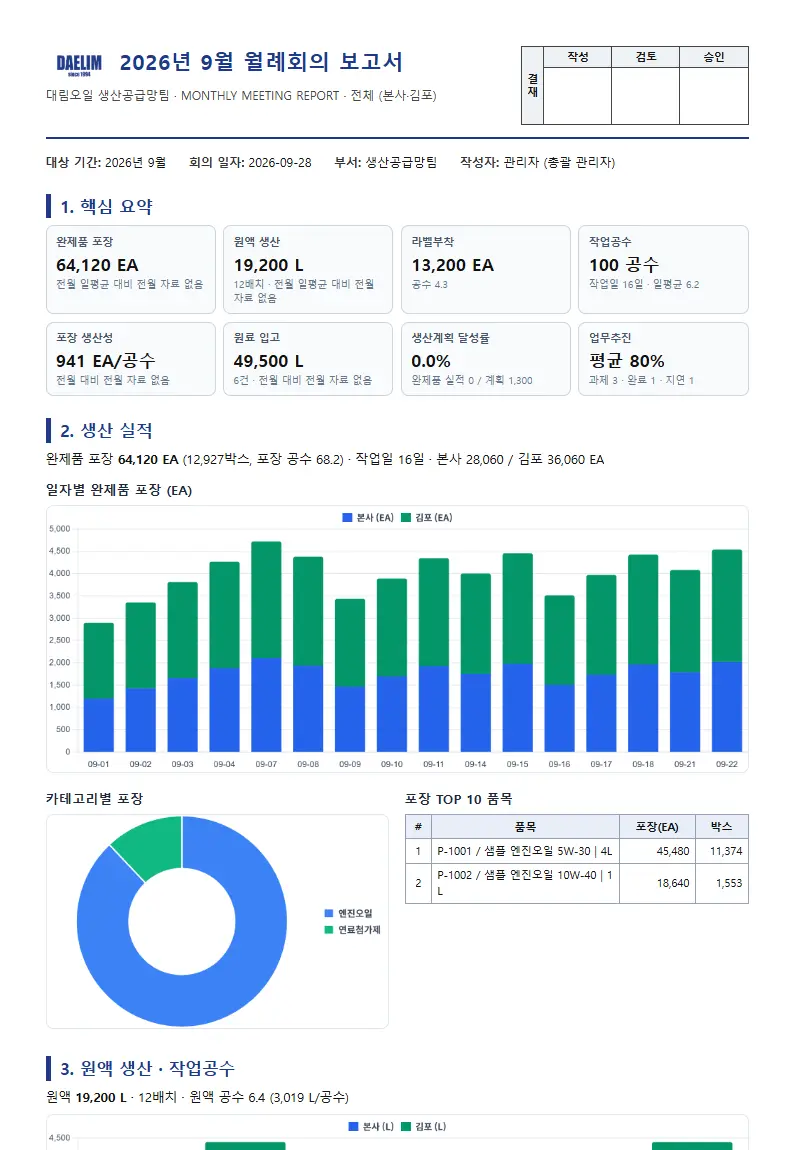
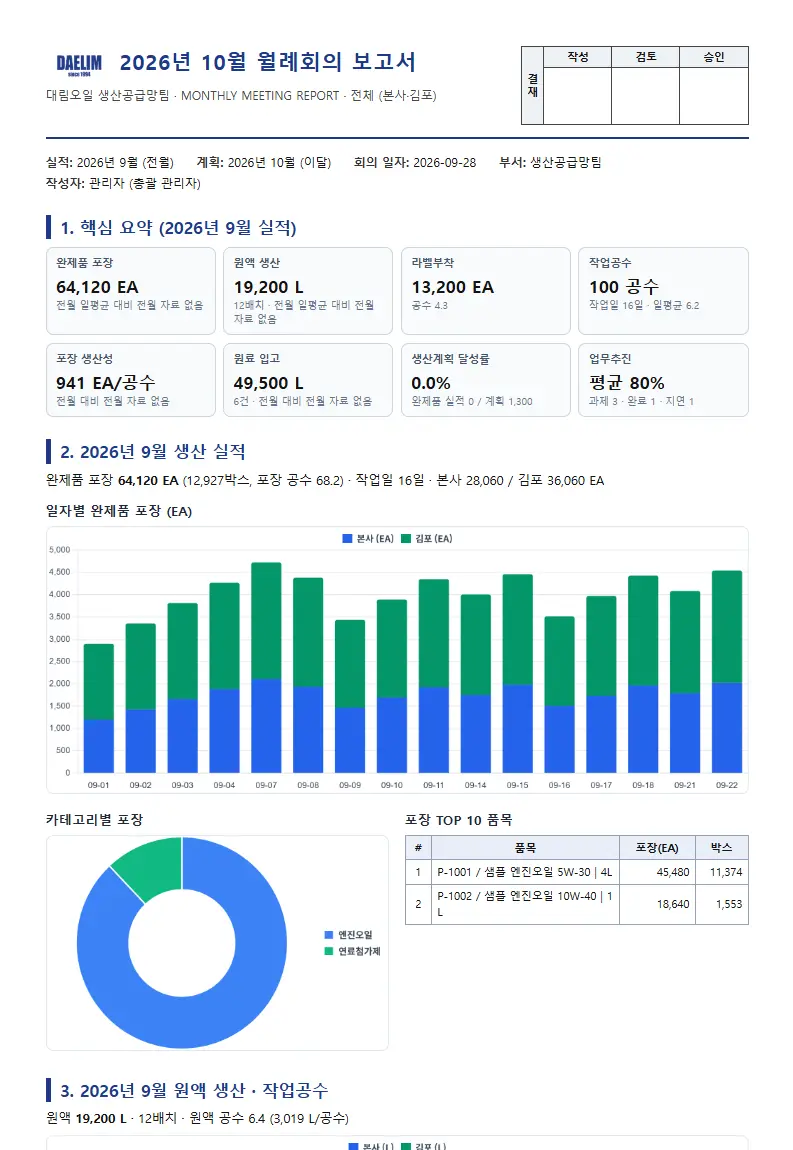
월례회의 자료: 회의 월 선택 시 실적은 전월, 계획은 이달로 반영 (제목·목차·절 이름에 달 표시, 이달 업무추진 계획 슬라이드 추가)

diff --git a/src/components/analytics/monthlyMeeting.js b/src/components/analytics/monthlyMeeting.js
@@ -10,17 +10,18 @@ import { approvalPrintHtml } from '../approval/ApprovalBox.js';
 import { computeRawInbound, REGION_COLORS } from './rawInbound.js';
 
 // 월간 실적 현황판 → 월례회의 자료 (PPT · PDF 보고서)
-// 재료: 현황판의 생산실적(업무일지 집계 스냅숏) + 원료입고 실적(원료수불부) + 업무추진계획서(이달·다음 달)
-//       + 월간 생산계획·구매계획(주간 계획 취합: 이달 계획 대비 실적, 다음 달 계획)
+// 회의 월(M)을 고르면 실적은 전월(M-1), 계획은 이달(M): collectMeetingData의 D.ym = 실적 달(전월), D.nym = 회의 월(이달)
+// 재료: 현황판의 생산실적(업무일지 집계, 전월) + 원료입고 실적(원료수불부, 전월) + 업무추진계획서(전월 현황·이달 중점)
+//       + 월간 생산계획·구매계획(주간 계획 취합: 전월 계획 대비 실적·구매 이행, 이달 계획)
 // PPT: pptxgenjs로 편집 가능한 차트·표 슬라이드(16:9, 맑은 고딕). PDF: A4 세로 보고서를 새 창에 그려 인쇄 → 'PDF로 저장'.
 // 두 양식 모두 같은 자료(collectMeetingData)를 쓴다.
 const OPTS_KEY = 'daelim_meeting_opts';
 const SITE_LABEL = { HQ: '본사', GIMPO: '김포' };
 const SITE_COLOR = { HQ: '#2563eb', GIMPO: '#059669' };
 export const MEETING_SECTIONS = [
-    ['prod', '생산 실적 (포장·카테고리·TOP 10)'], ['oil', '원액 생산 · 작업공수'], ['raw', '원료입고 실적'],
-    ['plan', '생산계획 대비 실적'], ['purch', '구매계획 이행'], ['work', '업무추진 현황'],
-    ['next', '다음 달 생산·구매계획 · 중점 추진'], ['issue', '이슈 · 건의사항']
+    ['prod', '전월 생산 실적 (포장·카테고리·TOP 10)'], ['oil', '전월 원액 생산 · 작업공수'], ['raw', '전월 원료입고 실적'],
+    ['plan', '전월 생산계획 대비 실적'], ['purch', '전월 구매계획 이행'], ['work', '전월 업무추진 현황'],
+    ['next', '이달 생산·구매계획 · 중점 추진'], ['issue', '이슈 · 건의사항']
 ];
 const fmt = (n, d = 0) => (Number(n) || 0).toLocaleString('ko-KR', { maximumFractionDigits: d });
 const ymLabel = (ym) => `${ym.slice(0, 4)}년 ${Number(ym.slice(5, 7))}월`;
@@ -169,7 +170,10 @@ const kpiList = (D) => {
         ['업무추진', D.taskSum.total ? `평균 ${D.taskSum.avg.toFixed(0)}%` : '계획서 없음', D.taskSum.total ? `과제 ${D.taskSum.total} · 완료 ${D.taskSum.count.DONE} · 지연 ${D.taskSum.count.DELAY}` : '생산관리 → 업무추진계획']
     ];
 };
-const title = (D) => `${ymLabel(D.ym)} ${D.form.dept} 월례회의`;
+// 제목은 회의 월(이달), 실적 절은 전월 이름을 붙인다
+const title = (D) => `${ymLabel(D.nym)} ${D.form.dept} 월례회의`;
+const R = (D) => ymLabel(D.ym); // 실적 달 (전월)
+const P = (D) => ymLabel(D.nym); // 계획 달 (이달 = 회의 월)
 
 // ---------- PDF 보고서 (A4 세로, 인쇄 → PDF로 저장) ----------
 export const exportMeetingPdf = async (D, w = window.open('', '_blank')) => {
@@ -193,15 +197,15 @@ export const exportMeetingPdf = async (D, w = window.open('', '_blank')) => {
     const note = (t) => (t ? `<div class="notes">${esc(t)}</div>` : '');
     const more = (n, shown) => (n > shown ? `<p class="small">외 ${n - shown}건은 월간 실적 현황판·계획 화면에서 확인</p>` : '');
     const sec = [];
-    sec.push(`${h2('핵심 요약')}<div class="kpis">${kpiList(D).map(([k, v, sub]) => `<div class="kpi"><div class="k">${esc(k)}</div><div class="v">${esc(v)}</div><div class="s">${esc(sub)}</div></div>`).join('')}</div>`);
+    sec.push(`${h2(`핵심 요약 (${R(D)} 실적)`)}<div class="kpis">${kpiList(D).map(([k, v, sub]) => `<div class="kpi"><div class="k">${esc(k)}</div><div class="v">${esc(v)}</div><div class="s">${esc(sub)}</div></div>`).join('')}</div>`);
     if (on('prod')) {
-        sec.push(`<div class="block">${h2('생산 실적')}<p class="lead">완제품 포장 <b>${fmt(s.t.pack)} EA</b> (${fmt(s.t.packBox)}박스, 포장 공수 ${fmt(s.t.mhPack, 1)}) · 작업일 ${s.workDays}일${s.view === 'ALL' ? ` · 본사 ${fmt(s.bySite.HQ.pack)} / 김포 ${fmt(s.bySite.GIMPO.pack)} EA` : ''}</p>
+        sec.push(`<div class="block">${h2(`${R(D)} 생산 실적`)}<p class="lead">완제품 포장 <b>${fmt(s.t.pack)} EA</b> (${fmt(s.t.packBox)}박스, 포장 공수 ${fmt(s.t.mhPack, 1)}) · 작업일 ${s.workDays}일${s.view === 'ALL' ? ` · 본사 ${fmt(s.bySite.HQ.pack)} / 김포 ${fmt(s.bySite.GIMPO.pack)} EA` : ''}</p>
             ${img.pack ? `<h3>일자별 완제품 포장 (EA)</h3><img class="chart" src="${img.pack}">` : '<p class="small">포장 실적 없음</p>'}</div>
             <div class="block two"><div>${img.category ? `<h3>카테고리별 포장</h3><img class="chart" src="${img.category}">` : ''}</div>
             <div><h3>포장 TOP 10 품목</h3>${table(['#', '품목', '포장(EA)', '박스'], s.products.slice(0, 10).map((p, i) => [i + 1, esc(p.item), fmt(p.qty), fmt(p.box)]), { widths: [7, 0, 20, 14], cls: ['c', '', 'r', 'r'] })}</div></div>`);
     }
     if (on('oil')) {
-        sec.push(`<div class="block">${h2('원액 생산 · 작업공수')}<p class="lead">원액 <b>${fmt(s.t.oil)} L</b> · ${s.t.oilBatches}배치 · 원액 공수 ${fmt(s.t.mhOil, 1)} (${fmt(s.oilProd)} L/공수)</p>
+        sec.push(`<div class="block">${h2(`${R(D)} 원액 생산 · 작업공수`)}<p class="lead">원액 <b>${fmt(s.t.oil)} L</b> · ${s.t.oilBatches}배치 · 원액 공수 ${fmt(s.t.mhOil, 1)} (${fmt(s.oilProd)} L/공수)</p>
             ${img.oil ? `<img class="chart" src="${img.oil}">` : ''}
             <div class="two"><div><h3>원액 품목별</h3>${table(['원액', '생산(L)', '배치', '공수'], s.oils.slice(0, 10).map(o => [esc(o.item), fmt(o.qty), o.batches, fmt(o.manHours, 2)]), { widths: [0, 22, 12, 14], cls: ['', 'r', 'r', 'r'] })}${more(s.oils.length, 10)}</div>
             <div><h3>작업공수 유형별</h3>${table(['유형', '공수', '비율'], [['제품포장', s.t.mhPack], ['원액생산', s.t.mhOil], ['라벨부착', s.t.mhLabel], ['기타업무', s.t.mhOther]].map(([k, v]) => [k, fmt(v, 1), pctText(v, s.t.manHours)]).concat([[`<b>합계</b>`, `<b>${fmt(s.t.manHours, 1)}</b>`, '100%']]), { widths: [0, 22, 18], cls: ['', 'r', 'r'] })}
@@ -209,7 +213,7 @@ export const exportMeetingPdf = async (D, w = window.open('', '_blank')) => {
     }
     if (on('raw')) {
         const r = D.raw;
-        sec.push(`<div class="block">${h2('원료입고 실적')}<p class="lead">원료 입고 <b>${fmt(r.total.qty)} L</b> (${fmt(r.total.kg)} kg) · ${r.total.count}건 · 원료 ${r.byItem.length}품목 · 같은 기간 사용 ${fmt(r.total.useQty)} L · 전월 대비 ${deltaText(r.total.qty, D.rawPrev.total.qty)}</p>
+        sec.push(`<div class="block">${h2(`${R(D)} 원료입고 실적`)}<p class="lead">원료 입고 <b>${fmt(r.total.qty)} L</b> (${fmt(r.total.kg)} kg) · ${r.total.count}건 · 원료 ${r.byItem.length}품목 · 같은 기간 사용 ${fmt(r.total.useQty)} L · 전월 대비 ${deltaText(r.total.qty, D.rawPrev.total.qty)}</p>
             ${img.raw ? `<img class="chart" src="${img.raw}">` : ''}
             ${table(['원료', '입고(L)', '중량(kg)', '건수', '공급처'], r.byItem.slice(0, 12).map(g => [esc(g.name), fmt(g.qty), g.kg ? fmt(g.kg) : '-', g.count, esc([...g.suppliers].join(', '))]), { widths: [0, 22, 22, 12, 50], cls: ['', 'r', 'r', 'r', ''] })}${more(r.byItem.length, 12)}
             <p class="small">원료수불부 매입 입고만 집계 (거점이동·재고조사·원액 생산 입고 제외)</p></div>`);
@@ -219,28 +223,30 @@ export const exportMeetingPdf = async (D, w = window.open('', '_blank')) => {
         sec.push(`<div class="block">${h2(`${ymLabel(D.ym)} 생산계획 대비 실적`)}<p class="lead">완제품 계획 ${fmt(D.planKpi.prodPlan)} · 실적 ${fmt(D.planKpi.prodDone)} · 달성률 <b>${D.planKpi.prodPlan ? pctText(D.planKpi.prodDone, D.planKpi.prodPlan) : '-'}</b>${D.planKpi.oilPlan ? ` · 원액 계획 ${fmt(D.planKpi.oilPlan)} L / 실적 ${fmt(D.planKpi.oilDone)} L` : ''}</p>
             <p class="small">실적 = 생산계획에 적은 실적 수량, * 표시는 적지 않아 업무일지의 포장·원액 생산 실적(그 품목의 첫 계획일부터)으로 채운 값</p>
             ${img.planVs ? `<img class="chart" src="${img.planVs}">` : ''}
-            ${table(['거점', '구분', '품목', '계획', '실적', '달성률', '단위'], rows.slice(0, 15).map(r => [esc(r.site), esc(r.type), esc(r.name), fmt(r.qty), `${fmt(r.done)}${r.src === '업무일지' ? '*' : ''}`, pctText(r.done, r.qty), esc(r.unit)]), { widths: [12, 14, 0, 20, 20, 16, 12], cls: ['c', 'c', '', 'r', 'r', 'r', 'c'], empty: '이 달 생산계획 없음' })}${more(rows.length, 15)}
+            ${table(['거점', '구분', '품목', '계획', '실적', '달성률', '단위'], rows.slice(0, 15).map(r => [esc(r.site), esc(r.type), esc(r.name), fmt(r.qty), `${fmt(r.done)}${r.src === '업무일지' ? '*' : ''}`, pctText(r.done, r.qty), esc(r.unit)]), { widths: [12, 14, 0, 20, 20, 16, 12], cls: ['c', 'c', '', 'r', 'r', 'r', 'c'], empty: `${R(D)} 생산계획 없음` })}${more(rows.length, 15)}
             ${note(D.prodHead?.notes || D.prodHead?.goals || '')}</div>`);
     }
     if (on('purch')) {
         const p = D.purch;
         sec.push(`<div class="block">${h2(`${ymLabel(D.ym)} 구매계획 이행`)}<p class="lead">구매 ${p.count}건 · 입고완료 ${p.status.RECEIVED || 0} · 발주 ${p.status.ORDER || 0} · 계획 ${p.status.PLAN || 0} · 보류 ${p.status.HOLD || 0} · 입고완료율 <b>${pctText(p.status.RECEIVED || 0, p.count)}</b>${p.amount ? ` · 예상 금액 ${fmt(p.amount)}원` : ''}</p>
-            ${table(['거점', '품목', '수량', '단위', '공급처', '상태', '금액(원)'], p.rows.slice(0, 15).map(r => [esc(r.site), esc(r.name), fmt(r.qty), esc(r.unit), esc([...r.suppliers].join(', ')), esc([...r.statuses].join('·')), r.amount ? fmt(r.amount) : '-']), { widths: [12, 0, 18, 12, 30, 20, 22], cls: ['c', '', 'r', 'c', '', 'c', 'r'], empty: '이 달 구매계획 없음' })}${more(p.rows.length, 15)}</div>`);
+            ${table(['거점', '품목', '수량', '단위', '공급처', '상태', '금액(원)'], p.rows.slice(0, 15).map(r => [esc(r.site), esc(r.name), fmt(r.qty), esc(r.unit), esc([...r.suppliers].join(', ')), esc([...r.statuses].join('·')), r.amount ? fmt(r.amount) : '-']), { widths: [12, 0, 18, 12, 30, 20, 22], cls: ['c', '', 'r', 'c', '', 'c', 'r'], empty: `${R(D)} 구매계획 없음` })}${more(p.rows.length, 15)}</div>`);
     }
     if (on('work')) {
-        sec.push(`<div class="block">${h2('업무추진 현황')}${D.tasks.length ? `<p class="lead">추진과제 ${D.taskSum.total}건 · 완료 ${D.taskSum.count.DONE} · 진행 ${D.taskSum.count.WORK} · 지연 ${D.taskSum.count.DELAY} · 평균 진행률 <b>${D.taskSum.avg.toFixed(0)}%</b></p>
-            ${D.work.goal ? `<h3>이달의 중점 목표</h3>${note(D.work.goal)}` : ''}
+        sec.push(`<div class="block">${h2(`${R(D)} 업무추진 현황`)}${D.tasks.length ? `<p class="lead">추진과제 ${D.taskSum.total}건 · 완료 ${D.taskSum.count.DONE} · 진행 ${D.taskSum.count.WORK} · 지연 ${D.taskSum.count.DELAY} · 평균 진행률 <b>${D.taskSum.avg.toFixed(0)}%</b></p>
+            ${D.work.goal ? `<h3>${R(D)} 중점 목표</h3>${note(D.work.goal)}` : ''}
             ${table(['구분', '추진과제', '담당', '일정', '진행률', '상태', '추진실적'], D.tasks.map(t => [esc(t.category || ''), `<b>${esc(t.title)}</b>${t.detail ? `<br><span class="small">${esc(t.detail)}</span>` : ''}`, esc([t.dept, t.owner].filter(Boolean).join(' ')), `${esc((t.start || '').slice(5))}${t.end ? `~${esc(t.end.slice(5))}` : ''}`, `${Math.min(100, Math.max(0, Number(t.progress) || 0))}%`, WORK_STATUS[effectiveStatus(t)], esc(t.result || '')]), { widths: [16, 0, 24, 22, 14, 12, 40], cls: ['c', '', 'c', 'c', 'r', 'c', ''] })}
-            ${D.work.review ? `<h3>실적 검토 · 이슈</h3>${note(D.work.review)}` : ''}` : '<p class="small">이 달 업무추진계획서가 없습니다.</p>'}</div>`);
+            ${D.work.review ? `<h3>실적 검토 · 이슈</h3>${note(D.work.review)}` : ''}` : `<p class="small">${R(D)} 업무추진계획서가 없습니다.</p>`}</div>`);
     }
     if (on('next')) {
         const pn = D.planNext, qn = D.purchNext;
-        sec.push(`<div class="block">${h2(`다음 달(${ymLabel(D.nym)}) 계획`)}
+        const wt = (D.workNext.tasks || []).filter(t => t.title);
+        sec.push(`<div class="block">${h2(`${P(D)} 계획 (이달)`)}
             <h3>생산계획 · 완제품 ${fmt(D.planNextKpi.prod)}${D.planNextKpi.oil ? ` · 원액 ${fmt(D.planNextKpi.oil)} L` : ''}</h3>
-            ${table(['거점', '구분', '품목', '계획', '단위', '거래처'], pn.slice(0, 15).map(r => [esc(r.site), esc(r.type), esc(r.name), fmt(r.qty), esc(r.unit), esc([...r.partners].join(', '))]), { widths: [12, 14, 0, 22, 12, 40], cls: ['c', 'c', '', 'r', 'c', ''], empty: '다음 달 생산계획 없음 (생산관리 → 생산계획에서 입력)' })}${more(pn.length, 15)}
+            ${table(['거점', '구분', '품목', '계획', '단위', '거래처'], pn.slice(0, 15).map(r => [esc(r.site), esc(r.type), esc(r.name), fmt(r.qty), esc(r.unit), esc([...r.partners].join(', '))]), { widths: [12, 14, 0, 22, 12, 40], cls: ['c', 'c', '', 'r', 'c', ''], empty: `${P(D)} 생산계획 없음 (생산관리 → 생산계획에서 입력)` })}${more(pn.length, 15)}
             <h3>구매계획 · ${qn.count}건${qn.amount ? ` · 예상 ${fmt(qn.amount)}원` : ''}</h3>
-            ${table(['거점', '품목', '수량', '단위', '공급처', '입고예정'], qn.rows.slice(0, 12).map(r => [esc(r.site), esc(r.name), fmt(r.qty), esc(r.unit), esc([...r.suppliers].join(', ')), esc(r.eta || '')]), { widths: [12, 0, 20, 12, 36, 22], cls: ['c', '', 'r', 'c', '', 'c'], empty: '다음 달 구매계획 없음' })}${more(qn.rows.length, 12)}
-            ${D.form.nextFocus ? `<h3>다음 달 중점 추진사항</h3>${note(D.form.nextFocus)}` : ''}</div>`);
+            ${table(['거점', '품목', '수량', '단위', '공급처', '입고예정'], qn.rows.slice(0, 12).map(r => [esc(r.site), esc(r.name), fmt(r.qty), esc(r.unit), esc([...r.suppliers].join(', ')), esc(r.eta || '')]), { widths: [12, 0, 20, 12, 36, 22], cls: ['c', '', 'r', 'c', '', 'c'], empty: `${P(D)} 구매계획 없음` })}${more(qn.rows.length, 12)}
+            ${wt.length ? `<h3>업무추진 계획 · ${wt.length}건</h3>${table(['구분', '추진과제', '담당', '일정', '목표·성과지표'], wt.map(t => [esc(t.category || ''), `<b>${esc(t.title)}</b>${t.detail ? `<br><span class="small">${esc(t.detail)}</span>` : ''}`, esc([t.dept, t.owner].filter(Boolean).join(' ')), `${esc((t.start || '').slice(5))}${t.end ? `~${esc(t.end.slice(5))}` : ''}`, esc(t.target || '')]), { widths: [16, 0, 26, 24, 40], cls: ['c', '', 'c', 'c', ''] })}` : ''}
+            ${D.form.nextFocus ? `<h3>${P(D)} 중점 추진사항</h3>${note(D.form.nextFocus)}` : ''}</div>`);
     }
     if (on('issue') && D.form.issues) sec.push(`<div class="block">${h2('이슈 · 건의사항')}${note(D.form.issues)}</div>`);
 
@@ -273,11 +279,11 @@ export const exportMeetingPdf = async (D, w = window.open('', '_blank')) => {
         @media screen { body { background: #cbd5e1; padding: 8mm 0; } .page { background: #fff; padding: 12mm; width: 210mm; box-shadow: 0 1px 6px rgba(0,0,0,.25); } }
     </style></head><body><div class="page">
         <div class="head">
-            <div><h1><img class="logo" src="./logo.png" alt="" onerror="this.remove()" />${esc(ymLabel(D.ym))} 월례회의 보고서</h1>
+            <div><h1><img class="logo" src="./logo.png" alt="" onerror="this.remove()" />${esc(P(D))} 월례회의 보고서</h1>
                 <div class="sub">대림오일 ${esc(D.form.dept)} · MONTHLY MEETING REPORT · ${esc(D.siteLabel)}</div></div>
             ${approvalPrintHtml(['작성', '검토', '승인'], {})}
         </div>
-        <div class="meta"><span><b>대상 기간:</b> ${esc(ymLabel(D.ym))}</span><span><b>회의 일자:</b> ${esc(D.form.date)}</span><span><b>부서:</b> ${esc(D.form.dept)}</span><span><b>작성자:</b> ${esc(D.form.author)}</span></div>
+        <div class="meta"><span><b>실적:</b> ${esc(R(D))} (전월)</span><span><b>계획:</b> ${esc(P(D))} (이달)</span><span><b>회의 일자:</b> ${esc(D.form.date)}</span><span><b>부서:</b> ${esc(D.form.dept)}</span><span><b>작성자:</b> ${esc(D.form.author)}</span></div>
         ${sec.join('')}
         <div class="foot"><span>대림오일 스마트 WMS · 월간 실적 현황판·생산계획·구매계획·업무추진계획 기준</span><span>출력 ${esc(new Date().toLocaleString('ko-KR'))}</span></div>
     </div><script>window.onload = function () { setTimeout(function () { window.print(); }, 500); };<\/script></body></html>`;
@@ -297,7 +303,7 @@ export const exportMeetingPpt = async (D) => {
     pptx.title = title(D);
     pptx.company = '대림오일';
     pptx.author = D.form.author || '';
-    const footer = `대림오일 ${D.form.dept} · ${ymLabel(D.ym)} 월례회의`;
+    const footer = `대림오일 ${D.form.dept} · ${P(D)} 월례회의 (${R(D)} 실적 · ${P(D)} 계획)`;
     pptx.defineSlideMaster({
         title: 'BODY', background: { color: 'FFFFFF' },
         objects: [
@@ -341,17 +347,18 @@ export const exportMeetingPpt = async (D) => {
     cover.background = { color: NAVY };
     cover.addShape(pptx.ShapeType.rect, { x: 0, y: 5.2, w: 13.33, h: 0.08, fill: { color: 'F59E0B' }, line: { color: 'F59E0B' } });
     cover.addText('대림오일', { x: 0.8, y: 1.5, w: 11, h: 0.5, fontSize: 18, color: 'BFDBFE', fontFace: F, bold: true });
-    cover.addText(`${ymLabel(D.ym)} 월례회의`, { x: 0.8, y: 2.1, w: 11.5, h: 1.1, fontSize: 44, color: 'FFFFFF', fontFace: F, bold: true });
-    cover.addText(`${D.form.dept} 월간 실적 및 계획 보고`, { x: 0.8, y: 3.25, w: 11.5, h: 0.6, fontSize: 22, color: 'E0E7FF', fontFace: F });
+    cover.addText(`${P(D)} 월례회의`, { x: 0.8, y: 2.1, w: 11.5, h: 1.1, fontSize: 44, color: 'FFFFFF', fontFace: F, bold: true });
+    cover.addText(`${D.form.dept} · ${R(D)} 실적 및 ${P(D)} 계획 보고`, { x: 0.8, y: 3.25, w: 11.5, h: 0.6, fontSize: 22, color: 'E0E7FF', fontFace: F });
     cover.addText(`회의 일자 ${D.form.date}   ·   보고 ${D.form.author || ''}   ·   ${D.siteLabel}`, { x: 0.8, y: 5.45, w: 11.5, h: 0.5, fontSize: 14, color: 'E0E7FF', fontFace: F });
 
     // 2. 목차
-    const agenda = ['핵심 요약', ...MEETING_SECTIONS.filter(([k]) => on(k) && (k !== 'issue' || D.form.issues)).map(([, l]) => l)];
+    const monthName = (l) => l.replace('전월', R(D)).replace('이달', P(D));
+    const agenda = [`핵심 요약 (${R(D)} 실적)`, ...MEETING_SECTIONS.filter(([k]) => on(k) && (k !== 'issue' || D.form.issues)).map(([, l]) => monthName(l))];
     const ag = add('목차');
     ag.addText(agenda.map((a, i) => ({ text: `${String(i + 1).padStart(2, '0')}   ${a}`, options: { breakLine: true } })), { x: 1.2, y: 1.5, w: 10.5, h: 5.2, fontSize: 20, color: '1E293B', fontFace: F, paraSpaceAfter: 10, valign: 'top' });
 
     // 3. 핵심 요약 (KPI 카드 8칸)
-    const sm = add('핵심 요약', `${ymLabel(D.ym)} · ${D.siteLabel}`);
+    const sm = add(`핵심 요약 · ${R(D)} 실적`, D.siteLabel);
     kpiList(D).forEach(([k, v, sub], i) => {
         const x = 0.45 + (i % 4) * 3.12, y = 1.35 + Math.floor(i / 4) * 2.7;
         sm.addShape(pptx.ShapeType.roundRect, { x, y, w: 2.95, h: 2.45, fill: { color: 'F8FAFC' }, line: { color: 'CBD5E1', width: 1 }, rectRadius: 0.12 });
@@ -361,17 +368,17 @@ export const exportMeetingPpt = async (D) => {
     });
 
     if (on('prod')) {
-        const a = add('생산 실적 · 완제품 포장', `${fmt(s.t.pack)} EA · 작업일 ${s.workDays}일`);
+        const a = add(`${R(D)} 생산 실적 · 완제품 포장`, `${fmt(s.t.pack)} EA · 작업일 ${s.workDays}일`);
         lead(a, `완제품 포장 ${fmt(s.t.pack)} EA (${fmt(s.t.packBox)}박스) · 포장 공수 ${fmt(s.t.mhPack, 1)} · 생산성 ${fmt(s.packProd)} EA/공수${s.view === 'ALL' ? ` · 본사 ${fmt(s.bySite.HQ.pack)} / 김포 ${fmt(s.bySite.GIMPO.pack)}` : ''}`);
         barChart(a, C.pack, { x: 0.45, y: 1.7, w: 8.2, h: 5.2 }, { stacked: true });
         doughnut(a, C.category, { x: 8.8, y: 1.7, w: 4.1, h: 5.2 });
-        const b = add('생산 실적 · 포장 TOP 10 품목');
+        const b = add(`${R(D)} 생산 실적 · 포장 TOP 10 품목`);
         table(b, ['#', '품목', '카테고리', ...(s.view === 'ALL' ? ['본사', '김포'] : []), '합계(EA)', '박스', '공수'],
             s.products.slice(0, 10).map((p, i) => [i + 1, p.item, p.category, ...(s.view === 'ALL' ? [p.HQ ? fmt(p.HQ) : '', p.GIMPO ? fmt(p.GIMPO) : ''] : []), fmt(p.qty), fmt(p.box), fmt(p.manHours, 1)]),
             { x: 0.45, y: 1.3, w: 12.4 }, { colW: s.view === 'ALL' ? [0.5, 4.9, 1.6, 1.2, 1.2, 1.3, 0.9, 0.8] : [0.5, 6.2, 2, 1.6, 1.1, 1.0], align: ['center', 'left', 'center', 'right', 'right', 'right', 'right', 'right'], maxRows: 10 });
     }
     if (on('oil')) {
-        const a = add('원액 생산 · 작업공수', `원액 ${fmt(s.t.oil)} L · 공수 ${fmt(s.t.manHours, 1)}`);
+        const a = add(`${R(D)} 원액 생산 · 작업공수`, `원액 ${fmt(s.t.oil)} L · 공수 ${fmt(s.t.manHours, 1)}`);
         lead(a, `원액 ${fmt(s.t.oil)} L · ${s.t.oilBatches}배치 · 원액 공수 ${fmt(s.t.mhOil, 1)} (${fmt(s.oilProd)} L/공수) · 전체 공수 ${fmt(s.t.manHours, 1)}`);
         barChart(a, C.oil, { x: 0.45, y: 1.7, w: 6.4, h: 2.7 }, { stacked: true });
         doughnut(a, C.manhours, { x: 7.1, y: 1.7, w: 5.8, h: 2.7 });
@@ -380,7 +387,7 @@ export const exportMeetingPpt = async (D) => {
     }
     if (on('raw')) {
         const r = D.raw;
-        const a = add('원료입고 실적', `${fmt(r.total.qty)} L · ${r.total.count}건`);
+        const a = add(`${R(D)} 원료입고 실적`, `${fmt(r.total.qty)} L · ${r.total.count}건`);
         lead(a, `원료 입고 ${fmt(r.total.qty)} L (${fmt(r.total.kg)} kg) · 원료 ${r.byItem.length}품목 · 사용 ${fmt(r.total.useQty)} L · 전월 대비 ${deltaText(r.total.qty, D.rawPrev.total.qty)}`);
         barChart(a, C.raw, { x: 0.45, y: 1.7, w: 6.2, h: 5.1 }, { stacked: true });
         table(a, ['원료', '입고(L)', '건수', '공급처'], r.byItem.map(g => [g.name, fmt(g.qty), g.count, [...g.suppliers].join(', ')]), { x: 6.85, y: 1.7, w: 6.05 }, { colW: [2.3, 1.2, 0.65, 1.9], align: ['left', 'right', 'right', 'left'], maxRows: 14, fontSize: 9.5 });
@@ -400,22 +407,29 @@ export const exportMeetingPpt = async (D) => {
             { x: 0.45, y: 1.7, w: 12.4 }, { colW: [0.9, 4.2, 1.2, 0.8, 2.4, 1.4, 1.5], align: ['center', 'left', 'right', 'center', 'left', 'center', 'right'], maxRows: 15 });
     }
     if (on('work')) {
-        const a = add('업무추진 현황', D.tasks.length ? `평균 진행률 ${D.taskSum.avg.toFixed(0)}%` : '');
+        const a = add(`${R(D)} 업무추진 현황`, D.tasks.length ? `평균 진행률 ${D.taskSum.avg.toFixed(0)}%` : '');
         if (D.tasks.length) {
             lead(a, `추진과제 ${D.taskSum.total}건 · 완료 ${D.taskSum.count.DONE} · 진행 ${D.taskSum.count.WORK} · 지연 ${D.taskSum.count.DELAY}${D.work.goal ? ` · 중점 목표: ${D.work.goal.split('\n')[0]}` : ''}`);
             table(a, ['구분', '추진과제', '담당', '일정', '진행률', '상태', '추진실적'], D.tasks.map(t => [t.category || '', t.title, [t.dept, t.owner].filter(Boolean).join(' '), `${(t.start || '').slice(5)}${t.end ? `~${t.end.slice(5)}` : ''}`, `${Math.min(100, Math.max(0, Number(t.progress) || 0))}%`, WORK_STATUS[effectiveStatus(t)], t.result || '']),
                 { x: 0.45, y: 1.7, w: 12.4 }, { colW: [1.1, 3.6, 1.8, 1.4, 0.9, 0.8, 2.8], align: ['center', 'left', 'center', 'center', 'right', 'center', 'left'], maxRows: 9 });
             if (D.work.review) a.addText([{ text: '실적 검토 · 이슈\n', options: { bold: true, color: '92400E' } }, { text: D.work.review }], { x: 0.45, y: 5.35, w: 12.4, h: 1.55, fontSize: 11, color: '1F2937', fontFace: F, fill: { color: 'FFFBEB' }, line: { color: 'FCD34D', width: 1 }, valign: 'top', margin: 8 });
-        } else lead(a, '이 달 업무추진계획서가 없습니다. (생산관리 → 업무추진계획)');
+        } else lead(a, `${R(D)} 업무추진계획서가 없습니다. (생산관리 → 업무추진계획)`);
     }
     if (on('next')) {
-        const a = add(`다음 달(${ymLabel(D.nym)}) 계획`, `완제품 ${fmt(D.planNextKpi.prod)}${D.planNextKpi.oil ? ` · 원액 ${fmt(D.planNextKpi.oil)} L` : ''}`);
+        const a = add(`${P(D)} 계획 (이달)`, `완제품 ${fmt(D.planNextKpi.prod)}${D.planNextKpi.oil ? ` · 원액 ${fmt(D.planNextKpi.oil)} L` : ''}`);
         a.addText('생산계획', { x: 0.45, y: 1.15, w: 6, h: 0.4, fontSize: 14, bold: true, color: NAVY, fontFace: F });
         table(a, ['거점', '구분', '품목', '계획', '단위'], D.planNext.map(r => [r.site, r.type, r.name, fmt(r.qty), r.unit]), { x: 0.45, y: 1.6, w: 6.2 }, { colW: [0.7, 0.8, 3.0, 1.1, 0.6], align: ['center', 'center', 'left', 'right', 'center'], maxRows: 10, fontSize: 9.5 });
         a.addText(`구매계획 · ${D.purchNext.count}건`, { x: 6.85, y: 1.15, w: 6, h: 0.4, fontSize: 14, bold: true, color: NAVY, fontFace: F });
         table(a, ['품목', '수량', '단위', '공급처'], D.purchNext.rows.map(r => [r.name, fmt(r.qty), r.unit, [...r.suppliers].join(', ')]), { x: 6.85, y: 1.6, w: 6.05 }, { colW: [2.8, 1.1, 0.65, 1.5], align: ['left', 'right', 'center', 'left'], maxRows: 10, fontSize: 9.5 });
+        const wt = (D.workNext.tasks || []).filter(t => t.title);
+        if (wt.length) {
+            const w = add(`${P(D)} 업무추진 계획`, `${wt.length}건`);
+            if (D.workNext.goal) lead(w, `중점 목표: ${D.workNext.goal.split('\n')[0]}`);
+            table(w, ['구분', '추진과제', '세부 추진내용', '담당', '일정', '목표·성과지표'], wt.map(t => [t.category || '', t.title, t.detail || '', [t.dept, t.owner].filter(Boolean).join(' '), `${(t.start || '').slice(5)}${t.end ? `~${t.end.slice(5)}` : ''}`, t.target || '']),
+                { x: 0.45, y: 1.7, w: 12.4 }, { colW: [1.1, 3.0, 3.2, 1.8, 1.3, 2.0], align: ['center', 'left', 'left', 'center', 'center', 'left'], maxRows: 12 });
+        }
         if (D.form.nextFocus) {
-            const f = add('다음 달 중점 추진사항');
+            const f = add(`${P(D)} 중점 추진사항`);
             f.addText(D.form.nextFocus, { x: 0.8, y: 1.4, w: 11.7, h: 5.3, fontSize: 18, color: '1E293B', fontFace: F, valign: 'top', paraSpaceAfter: 8 });
         }
     }
@@ -423,14 +437,15 @@ export const exportMeetingPpt = async (D) => {
         const a = add('이슈 · 건의사항');
         a.addText(D.form.issues, { x: 0.8, y: 1.4, w: 11.7, h: 5.3, fontSize: 18, color: '1E293B', fontFace: F, valign: 'top', paraSpaceAfter: 8 });
     }
-    await pptx.writeFile({ fileName: `${D.ym}_${D.form.dept}_월례회의.pptx` });
+    await pptx.writeFile({ fileName: `${D.nym}_${D.form.dept}_월례회의.pptx` });
 };
 
 // ---------- 대화창 ----------
 // ctx = { ym: 처음 고를 달, view, months: 고를 수 있는 달(최근 순), snapFor(ym) → 그 달 생산실적 스냅숏 }
 export const openMeetingDialog = (ctx, { showToast = () => {} } = {}) => {
+    // ym = 회의 월(이달, 계획). 실적은 그 전월. ctx.months = 업무일지·수불부 자료가 있는 달 → 그 다음 달을 회의 월로 고를 수 있게
     let ym = ctx.ym && ctx.ym !== 'ALL' ? ctx.ym : localDateStr().slice(0, 7);
-    const months = [...new Set([...(ctx.months || []), ym])].sort().reverse();
+    const months = [...new Set([...(ctx.months || []).map(nextMonth), ym])].sort().reverse();
     const siteText = SITE_LABEL[ctx.view] || '전체 (본사·김포)';
     let saved = {};
     try { saved = JSON.parse(localStorage.getItem(OPTS_KEY) || '{}'); } catch { }
@@ -448,7 +463,7 @@ export const openMeetingDialog = (ctx, { showToast = () => {} } = {}) => {
             </div>
             <div class="p-5 space-y-4 text-xs">
                 <div class="flex flex-wrap items-end gap-3 p-3 rounded-xl bg-indigo-50 border border-indigo-200">
-                    <label class="block"><span class="font-black text-indigo-800">회의 자료 대상 월</span>
+                    <label class="block"><span class="font-black text-indigo-800">회의 월 <span class="font-bold text-indigo-600">(실적 = 전월 · 계획 = 이달)</span></span>
                         <select id="mt-month" class="mt-1 block border border-indigo-300 rounded-lg px-2 py-1.5 font-black text-slate-900 min-w-[150px]">${months.map(m => `<option value="${m}" ${m === ym ? 'selected' : ''}>${esc(ymLabel(m))}</option>`).join('')}</select></label>
                     <div class="flex gap-1">
                         <button type="button" id="mt-prev" class="px-2.5 py-1.5 rounded-lg bg-white border border-indigo-200 font-black" title="이전 달">‹</button>
@@ -463,11 +478,11 @@ export const openMeetingDialog = (ctx, { showToast = () => {} } = {}) => {
                 </div>
                 <div><div class="font-bold text-slate-600 mb-1">넣을 항목 <span class="font-normal text-slate-400">(핵심 요약은 항상 들어갑니다)</span></div>
                     <div class="grid grid-cols-1 sm:grid-cols-2 gap-1.5">${MEETING_SECTIONS.map(([k, l]) => `<label class="flex items-center gap-2 px-2.5 py-1.5 rounded-lg border border-slate-200 hover:bg-slate-50 cursor-pointer"><input type="checkbox" class="mt-sec accent-indigo-600" value="${k}" ${sections.includes(k) ? 'checked' : ''} />${esc(l)}</label>`).join('')}</div></div>
-                <label class="block"><span id="mt-next-label" class="font-bold text-slate-600">다음 달 중점 추진사항</span>
+                <label class="block"><span id="mt-next-label" class="font-bold text-slate-600">이달 중점 추진사항</span>
                     <textarea id="mt-next" rows="3" class="mt-1 w-full border border-slate-300 rounded-lg px-2 py-1.5" placeholder="불러오는 중..."></textarea></label>
                 <label class="block"><span class="font-bold text-slate-600">이슈 · 건의사항</span>
                     <textarea id="mt-issues" rows="4" class="mt-1 w-full border border-slate-300 rounded-lg px-2 py-1.5" placeholder="불러오는 중..."></textarea></label>
-                <p class="text-[11px] text-slate-400">처음에는 업무추진계획서(이달 실적 검토·비고, 다음 달 중점 목표)와 월간 생산계획 비고에서 채워 둡니다. 고쳐서 쓰세요.</p>
+                <p class="text-[11px] text-slate-400">처음에는 업무추진계획서(전월 실적 검토·비고, 이달 중점 목표)와 이달 월간 생산계획 비고에서 채워 둡니다. 고쳐서 쓰세요.</p>
             </div>
             <div class="flex flex-wrap justify-end gap-2 px-5 py-4 border-t border-slate-200 bg-slate-50 rounded-b-2xl">
                 <span id="mt-busy" class="hidden mr-auto self-center text-xs font-bold text-indigo-600">자료를 만드는 중...</span>
@@ -492,11 +507,12 @@ export const openMeetingDialog = (ctx, { showToast = () => {} } = {}) => {
         ym = m;
         if (!months.includes(m)) { months.push(m); months.sort().reverse(); $('#mt-month').innerHTML = months.map(x => `<option value="${x}">${esc(ymLabel(x))}</option>`).join(''); }
         $('#mt-month').value = m;
-        const s = ctx.snapFor(m);
-        $('#mt-sub').innerHTML = `<b>${esc(ymLabel(m))}</b> 업무일지 ${s.workDays}일 · 포장 ${fmt(s.t.pack)} EA · 원액 ${fmt(s.t.oil)} L${s.workDays ? '' : ' <span class="text-rose-600 font-bold">(이 달 업무일지 없음)</span>'} · 다음 달 = ${esc(ymLabel(nextMonth(m)))}`;
-        $('#mt-next-label').textContent = `다음 달(${ymLabel(nextMonth(m))}) 중점 추진사항`;
+        const rm = prevMonth(m); // 실적 달
+        const s = ctx.snapFor(rm);
+        $('#mt-sub').innerHTML = `실적 <b>${esc(ymLabel(rm))}</b>: 업무일지 ${s.workDays}일 · 포장 ${fmt(s.t.pack)} EA · 원액 ${fmt(s.t.oil)} L${s.workDays ? '' : ' <span class="text-rose-600 font-bold">(업무일지 없음)</span>'}<br>계획 <b>${esc(ymLabel(m))}</b>: 생산·구매계획, 업무추진계획`;
+        $('#mt-next-label').textContent = `이달(${ymLabel(m)}) 중점 추진사항`;
         const seq = ++loadSeq;
-        Promise.all([loadWorkPlan('WORK_MONTH', m), loadWorkPlan('WORK_MONTH', nextMonth(m)), getPlan('PROD_MONTH', nextMonth(m))]).then(([w, wn, pn]) => {
+        Promise.all([loadWorkPlan('WORK_MONTH', rm), loadWorkPlan('WORK_MONTH', m), getPlan('PROD_MONTH', m)]).then(([w, wn, pn]) => {
             if (seq !== loadSeq || !$('#mt-next')) return;
             $('#mt-next').placeholder = '예) 성수기 출하 대응, 충진기 설치·시운전';
             $('#mt-issues').placeholder = '예) 원료 납기 지연 우려, 인력 충원 요청';
@@ -522,7 +538,7 @@ export const openMeetingDialog = (ctx, { showToast = () => {} } = {}) => {
         busy.classList.remove('hidden');
         el.querySelectorAll('#mt-pdf, #mt-ppt').forEach(b => { b.disabled = true; });
         try {
-            const D = await collectMeetingData(ctx.snapFor(ym), form());
+            const D = await collectMeetingData(ctx.snapFor(prevMonth(ym)), form()); // 실적 = 전월, 계획 = 회의 월(D.nym)
             await fn(D, ...(win ? [win] : []));
             showToast(`📑 월례회의 ${label}를 만들었습니다.`);
         } catch (e) {

diff --git a/src/data/manualContent.js b/src/data/manualContent.js
@@ -1026,9 +1026,9 @@ const USER_MANUAL = {
                     image: 'meeting-dialog.webp', caption: '월례회의 자료: 부서·회의 일자·보고자, 넣을 항목, 다음 달 중점 추진사항, 이슈·건의사항',
                     steps: [
                         '위쪽에서 보기(`전체 실적`/`본사`/`김포`)를 고르고 `월례회의 자료`를 누릅니다.',
-                        '맨 위 **회의 자료 대상 월**에서 달을 고릅니다(‹ › 로 이전·다음 달). 처음에는 현황판에서 보고 있는 달이 골라져 있고, 그 달의 업무일지 일수·포장·원액 합계가 옆에 나옵니다. "다음 달" 계획은 고른 달의 다음 달입니다.',
-                        '부서·회의 일자·보고자를 확인하고 **넣을 항목**을 고릅니다: 생산 실적, 원액 생산·작업공수, 원료입고 실적, 생산계획 대비 실적, 구매계획 이행(고른 달), 업무추진 현황, 다음 달 생산·구매계획·중점 추진, 이슈·건의사항 (핵심 요약은 항상 들어갑니다).',
-                        '**다음 달 중점 추진사항**과 **이슈·건의사항**은 업무추진계획서(이달 실적 검토·비고, 다음 달 중점 목표)와 다음 달 월간 생산계획 비고에서 처음 채워 둡니다. 회의에 맞게 고칩니다.',
+                        '맨 위 **회의 월**을 고릅니다(‹ › 로 이전·다음 달, 처음에는 이번 달). **실적은 전월, 계획은 이달(회의 월)** 로 들어갑니다. 예) 10월 회의 = 9월 실적(생산·원액·원료입고·생산계획 대비 실적·구매계획 이행·업무추진 현황) + 10월 계획(생산·구매계획·업무추진 계획·중점 추진사항). 옆에 실적 달의 업무일지 일수·포장·원액 합계가 나옵니다.',
+                        '부서·회의 일자·보고자를 확인하고 **넣을 항목**을 고릅니다: 전월 생산 실적, 전월 원액 생산·작업공수, 전월 원료입고 실적, 전월 생산계획 대비 실적, 전월 구매계획 이행, 전월 업무추진 현황, 이달 생산·구매계획·중점 추진, 이슈·건의사항 (핵심 요약은 항상 들어갑니다).',
+                        '**이달 중점 추진사항**과 **이슈·건의사항**은 업무추진계획서(전월 실적 검토·비고, 이달 중점 목표)와 이달 월간 생산계획 비고에서 처음 채워 둡니다. 회의에 맞게 고칩니다.',
                         '`PPT 내려받기`: 16:9 발표 자료(.pptx)를 내려받습니다. 표지·목차·핵심 요약(8칸)·항목별 슬라이드로 되어 있고, 그래프와 표는 **PowerPoint에서 바로 고칠 수 있는** 차트·표입니다.',
                         '`PDF 보고서`: A4 세로 보고서(결재란 작성·검토·승인)를 새 창에 열고 인쇄 창을 띄웁니다. 프린터에서 **PDF로 저장**을 고르면 PDF 파일이 됩니다.'
                     ],
@@ -1037,8 +1037,8 @@ const USER_MANUAL = {
                 },
                 {
                     title: 'PDF 보고서 양식',
-                    image: 'meeting-pdf.webp', caption: 'PDF 보고서 첫 쪽: 결재란, 핵심 요약, 생산 실적 그래프',
-                    steps: ['보고서 순서: 핵심 요약 → 생산 실적 → 원액 생산·작업공수 → 원료입고 실적 → 이달 생산계획 대비 실적 → 이달 구매계획 이행 → 업무추진 현황 → 다음 달 계획 → 이슈·건의사항 (고른 항목만).']
+                    image: 'meeting-pdf.webp', caption: 'PDF 보고서 첫 쪽: 결재란, 실적(전월)·계획(이달) 기간, 핵심 요약, 생산 실적 그래프',
+                    steps: ['보고서 순서: 핵심 요약(전월 실적) → 전월 생산 실적 → 원액 생산·작업공수 → 원료입고 실적 → 생산계획 대비 실적 → 구매계획 이행 → 업무추진 현황 → 이달 계획(생산·구매·업무추진 계획·중점 추진사항) → 이슈·건의사항 (고른 항목만). PPT도 같은 순서이고, 이달 업무추진계획서가 있으면 \'업무추진 계획\' 슬라이드가 더해집니다.']
                 }
             ]
         },

diff --git a/src/components/Analytics.js b/src/components/Analytics.js
@@ -322,11 +322,11 @@ export const renderAnalytics = (container, { showToast = () => {} } = {}) => {
 
         container.querySelectorAll('.an-view').forEach(b => b.addEventListener('click', () => { view = b.dataset.v; renderView(); }));
         container.querySelectorAll('.an-board').forEach(b => b.addEventListener('click', () => { board = b.dataset.b; renderView(); }));
-        // 월례회의 자료: 달을 대화창에서 고른다 (기본 = 보고 있는 달, 전체 기간이면 가장 최근 달)
+        // 월례회의 자료: 회의 월을 대화창에서 고른다 (기본 = 이번 달). 실적은 전월, 계획은 회의 월
         container.querySelector('#btn-monthly-meeting')?.addEventListener('click', () => {
-            const meetingMonths = [...new Set([...every.map(d => d.date.slice(0, 7)), ...rawInboundMonths(), localDateStr().slice(0, 7)])].sort().reverse();
+            const dataMonths = [...new Set([...every.map(d => d.date.slice(0, 7)), ...rawInboundMonths()])];
             openMeetingDialog({
-                ym: selectedMonth === 'ALL' ? meetingMonths[0] : selectedMonth, view, months: meetingMonths,
+                ym: localDateStr().slice(0, 7), view, months: dataMonths,
                 snapFor: (m) => ({ ym: m, view, ...computeProd(allDaysOf(), view, m) })
             }, { showToast });
         });
